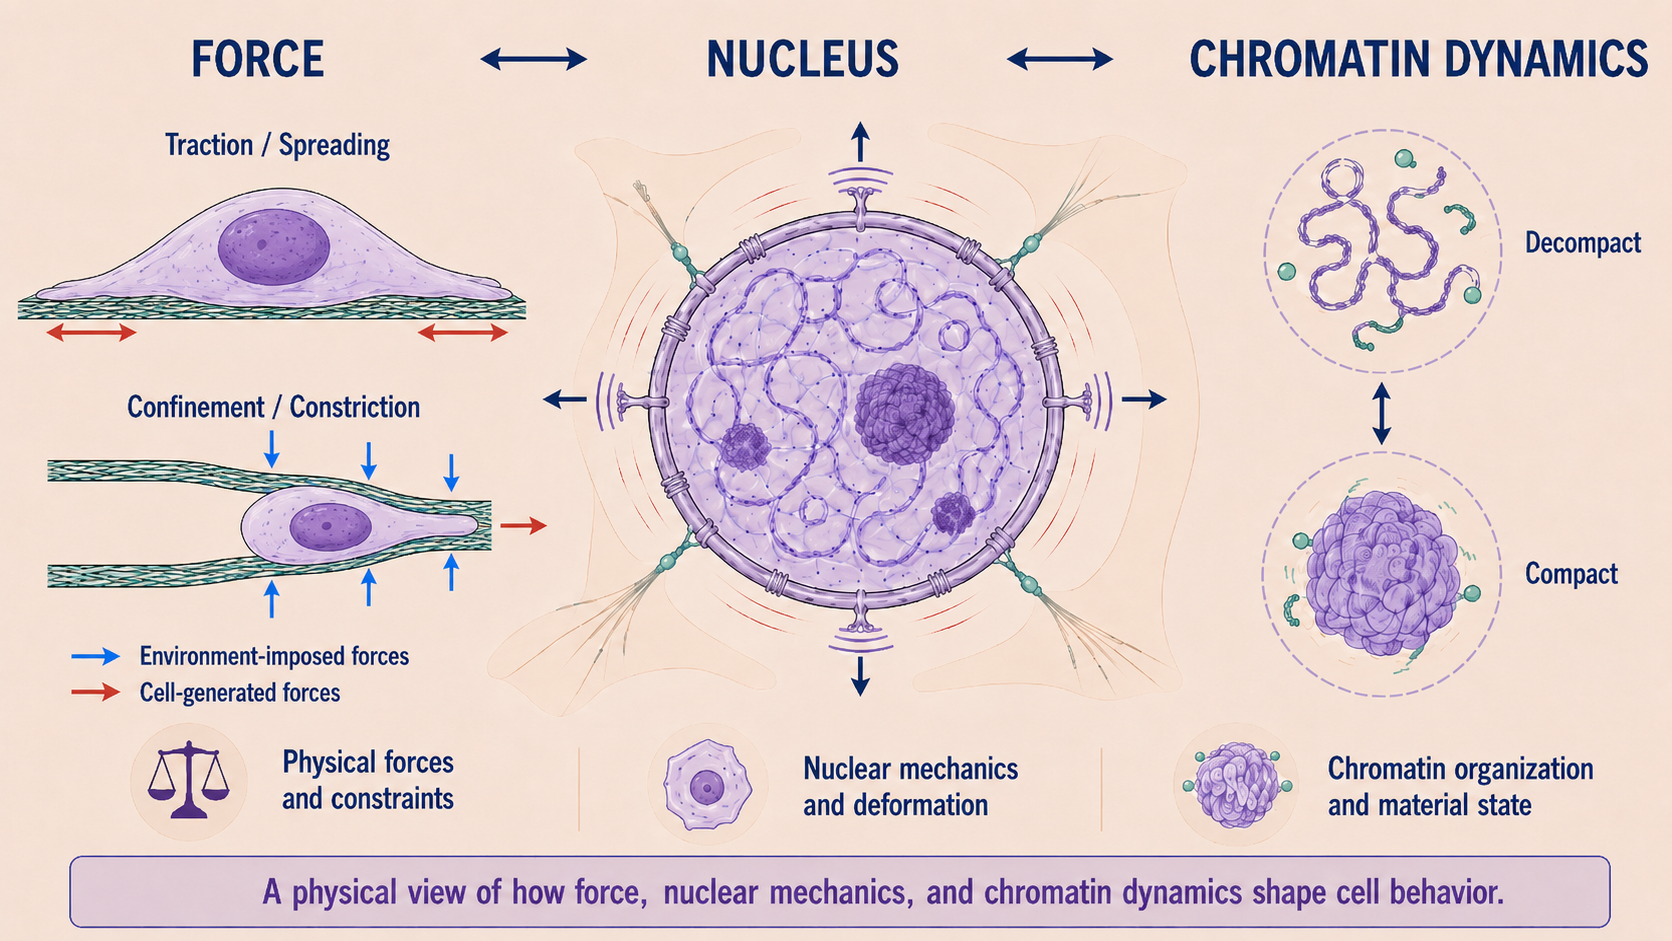
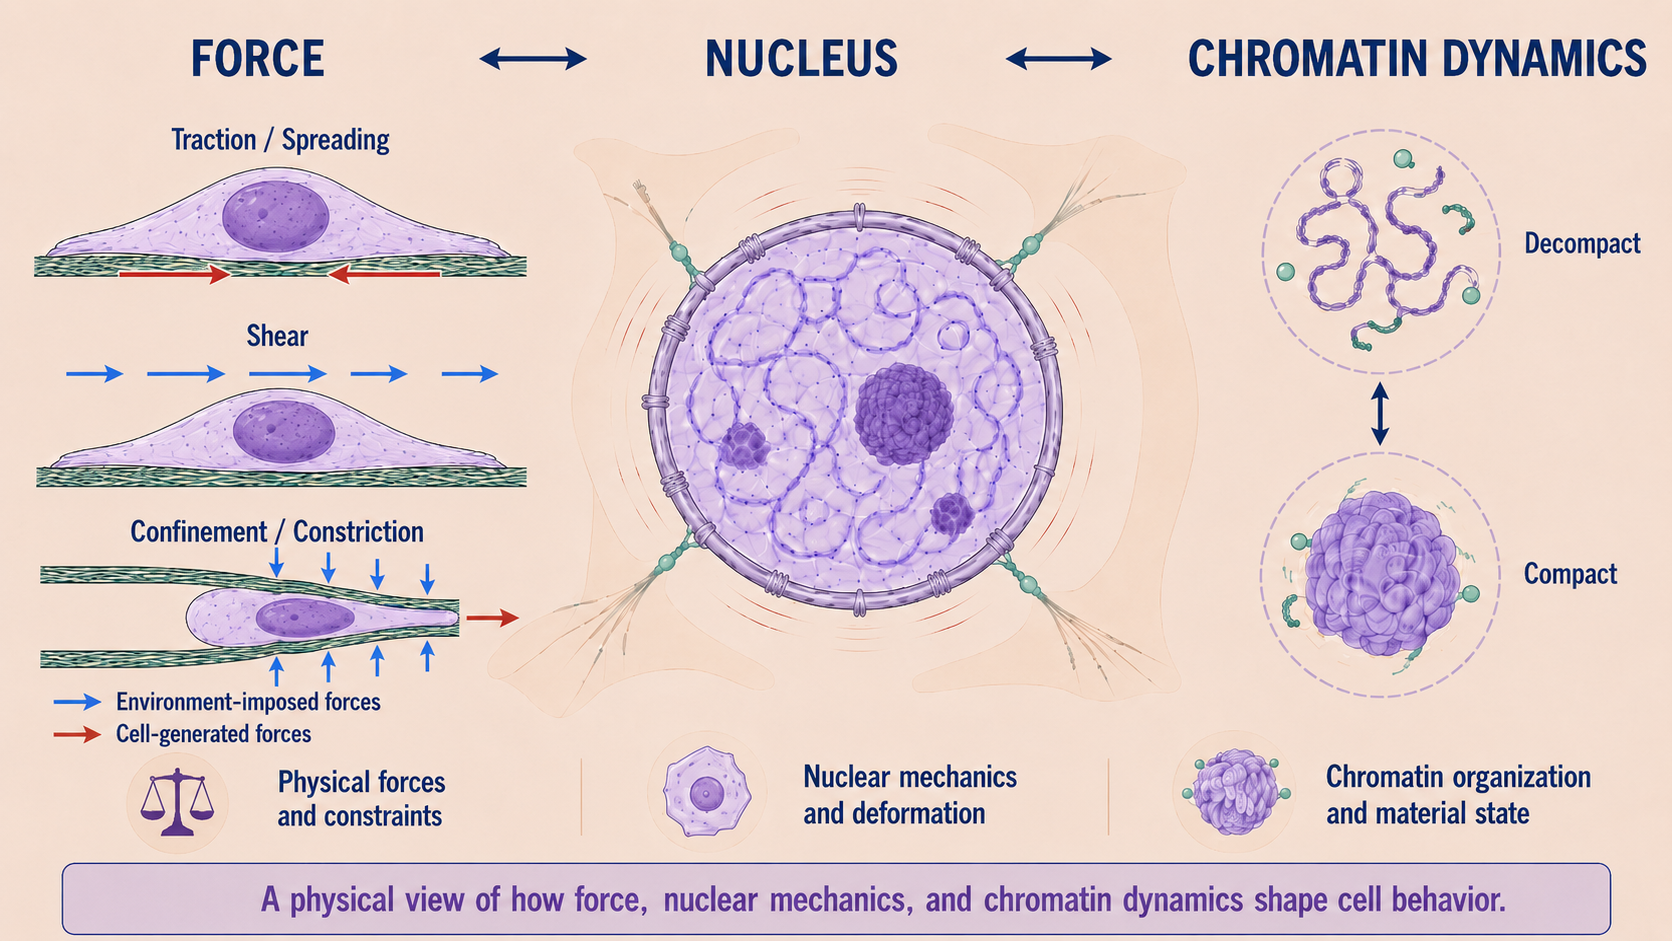
Refresh biological visual and research keywords

diff --git a/index.html b/index.html
@@ -74,7 +74,7 @@
       <div class="pillar-grid">
         <article class="pillar-card biophysics">
           <div class="pillar-visual">
-            <img src="assets/pillar-biological-questions.png" alt="Physical interactions among force, nuclear mechanics, and chromatin dynamics">
+            <img src="assets/pillar-biological-questions.png?v=20260722-2" alt="Physical interactions among force, nuclear mechanics, and chromatin dynamics">
           </div>
           <div class="pillar-content">
             <div class="pillar-index">01 · Biological questions</div>

diff --git a/research.html b/research.html
@@ -52,7 +52,7 @@
         <div class="eyebrow">Investigative toolkit</div>
         <h2>Engineering & Quantitative Approaches</h2>
         <p>I develop and combine tools that translate dynamic cellular phenomena into measurable physical variables. The goal is not simply to apply engineering methods to biology, but to use quantitative measurements to discriminate between competing mechanisms.</p>
-        <div class="topic-chips"><span>Live-cell microscopy</span><span>Image analysis</span><span>Machine learning</span><span>AFM</span><span>Physical modeling</span></div>
+        <div class="topic-chips"><span>Live-cell microscopy</span><span>Image analysis</span><span>AI-based phenotyping</span><span>AFM</span><span>Physical modeling</span></div>
         <h3>Core approaches</h3>
         <ul class="clean-list">
           <li>Live-cell image analysis for quantifying cellular and nuclear dynamics</li>